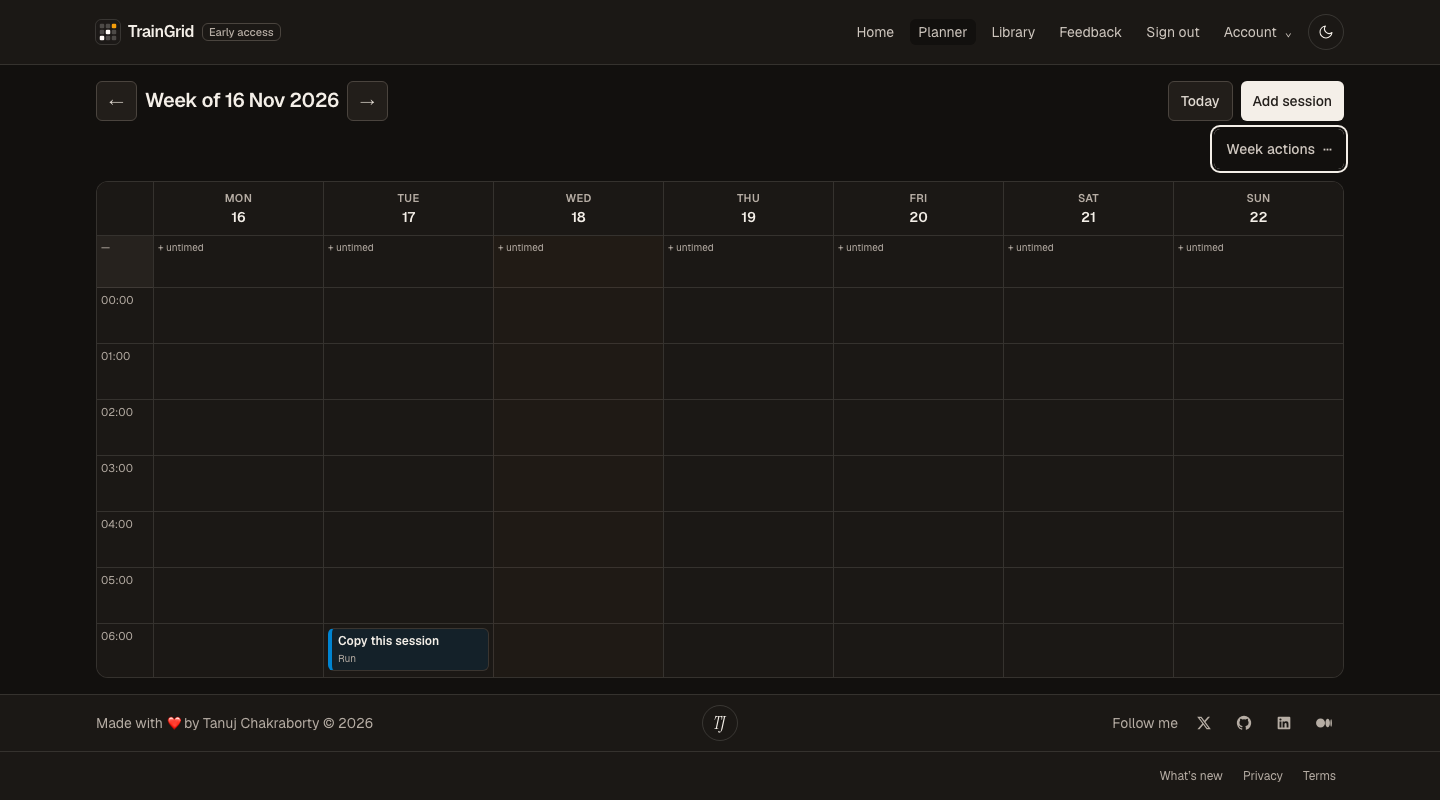
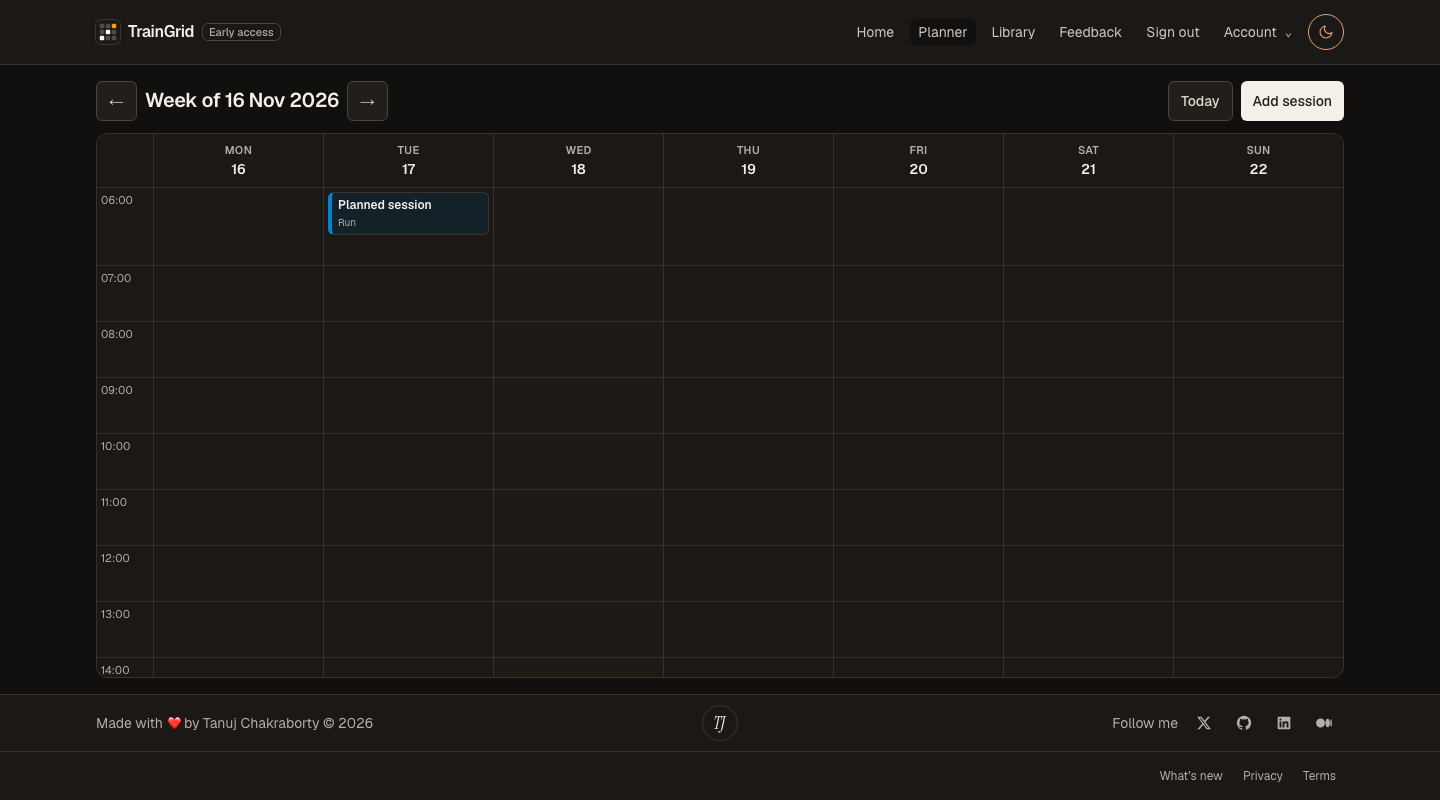
fix(ui): limit planner to available controls and refresh public guidance

diff --git a/e2e/secondary-actions.spec.ts b/e2e/secondary-actions.spec.ts
@@ -1,10 +1,9 @@
-import { mkdir } from "node:fs/promises";
+import { copyFile, mkdir } from "node:fs/promises";
 import { expect, test, type Page } from "@playwright/test";
 import { accessibilityResults } from "../tests/helpers/accessibility";
 import { todayIn } from "../lib/time-zone";
 import {
   createLocalSessionFor,
-  readRows,
   signInAsNewLocalMember,
 } from "./local-supabase";
 
@@ -83,78 +82,23 @@ test("data download lives in a secondary account disclosure with keyboard and ou
   }
 });
 
-test("week actions keep duplication hidden until confirmation and append independent copies", async ({
-  page,
-  context,
-  baseURL,
-}) => {
+test("planner exposes only available scheduling controls", async ({ page, context, baseURL }) => {
   const { userId } = await signInAsNewLocalMember(context, baseURL!);
-  const source = await createLocalSessionFor(
-    userId,
-    "Copy this session",
-    "2026-11-17",
-  );
-  await createLocalSessionFor(userId, "Already planned", "2026-11-24");
+  await createLocalSessionFor(userId, "Planned session", "2026-11-17");
   await page.goto("/week/2026-W47?day=2");
-  const dialog = page.getByRole("dialog", {
-    name: "Duplicate week",
-    exact: true,
-  });
   for (const scheme of ["light", "dark"] as const) {
     await theme(page, scheme);
-    for (const width of [320, 360, 768, 1440]) {
+    for (const width of [360, 1440]) {
       await page.setViewportSize({ width, height: 800 });
-      await expect(page.getByRole("combobox", { name: "Duplicate week onto", exact: true })).toHaveCount(0);
-      const trigger = page.getByRole("button", {
-        name: "Week actions",
-        exact: true,
-      });
-      await expect(trigger).toBeVisible();
-      if ([360, 1440].includes(width)) await capture(page, `planner-${width}-${scheme}`);
-      await trigger.click();
-      await expect(
-        dialog.getByRole("button", { name: "Cancel", exact: true }),
-      ).toBeFocused();
-      await expect(dialog.getByLabel("Duplicate week onto")).toHaveValue(
-        "2026-W48",
-      );
-      await expect(dialog).toContainText(
-        "already has 1 session(s). Copies will be added alongside them.",
-      );
-      expect((await accessibilityResults(page)).violations).toEqual([]);
+      await expect(page.getByRole("link", { name: "Add session", exact: true }).first()).toBeVisible();
+      await expect(page.getByRole("button", { name: /duplicate week|week actions/i })).toHaveCount(0);
+      await expect(page.locator('input[name="sourceWeekId"], select[name="destWeekId"]')).toHaveCount(0);
       await noOverflow(page);
-      if ([360, 1440].includes(width))
-        await capture(page, `duplicate-${width}-${scheme}`);
-      await page.keyboard.press("Escape");
-      await expect(dialog).not.toBeVisible();
-      await expect(trigger).toBeFocused();
-      await expect
-        .poll(
-          async () =>
-            (await readRows("scheduled_sessions", { user_id: userId })).length,
-        )
-        .toBe(2);
+      await capture(page, `planner-${width}-${scheme}`);
+      await mkdir("docs/images/v1", { recursive: true });
+      await copyFile(`${folder}/planner-${width}-${scheme}.png`, `docs/images/v1/planner-${width === 360 ? "phone" : "desktop"}-${scheme}.png`);
     }
   }
-  await page.getByRole("button", { name: "Week actions", exact: true }).click();
-  await dialog
-    .getByRole("button", { name: "Duplicate week", exact: true })
-    .click();
-  await expect(page).toHaveURL(/\/week\/2026-W48$/);
-  const rows = await readRows("scheduled_sessions", { user_id: userId });
-  expect(rows).toHaveLength(3);
-  expect(rows.filter((row) => row.date === "2026-11-24")).toHaveLength(2);
-  const copies = rows.filter((row) => row.name === "Copy this session");
-  expect(copies).toHaveLength(2);
-  const original = copies.find((row) => row.id === source)!.snapshot as { items: Array<{ id: string; instruction: string }> };
-  const copy = copies.find((row) => row.id !== source)!.snapshot as { items: Array<{ id: string; instruction: string }> };
-  expect(copy.items[0]!.instruction).toBe(original.items[0]!.instruction);
-  expect(copy.items[0]!.id).not.toBe(original.items[0]!.id);
-  await page.goto("/week/2026-W49");
-  await page.getByRole("button", { name: "Week actions", exact: true }).click();
-  await expect(
-    dialog.getByRole("button", { name: "Duplicate week", exact: true }),
-  ).toBeDisabled();
 });
 
 test("mobile home prioritizes today's first session ahead of getting started", async ({
@@ -197,6 +141,7 @@ test("public access guidance gives invited and uninvited visitors a next step wi
   page,
 }) => {
   await page.goto("/");
+  await expect(page.getByText(/duplicate week|copy an existing training week|keep a good week going/i)).toHaveCount(0);
   await expect(
     page.getByRole("link", { name: "No invitation yet?", exact: true }),
   ).toHaveAttribute("href", "#access");
@@ -226,4 +171,6 @@ test("public access guidance gives invited and uninvited visitors a next step wi
       if (width !== 320) await capture(page, `access-${width}-${scheme}`);
     }
   }
+  await page.goto("/whats-new");
+  await expect(page.getByText(/duplicate week|copy an existing training week/i)).toHaveCount(0);
 });

diff --git a/e2e/journeys.spec.ts b/e2e/journeys.spec.ts
@@ -78,27 +78,6 @@ test("rescheduling to a week that does not exist is refused", async ({ page }) =
   await expect(page.getByRole("link", { name: "Easy Run, 07:00" })).toBeVisible();
 });
 
-test("Journey 4 — duplicate week copies independent sessions", async ({ page }) => {
-  page.on("dialog", (dialog) => dialog.accept());
-  await scheduleRoutine(page, "Easy Run", "2", "07:00");
-
-  const heading = await page.getByRole("heading", { level: 1 }).innerText();
-  await page.getByRole("button", { name: "Week actions", exact: true }).click();
-  await page.getByRole("button", { name: "Duplicate week", exact: true }).click();
-  await expect(page.getByRole("link", { name: "Easy Run, 07:00" })).toBeVisible();
-  expect(await page.getByRole("heading", { level: 1 }).innerText()).not.toBe(heading);
-
-  await page.getByRole("link", { name: "Easy Run, 07:00" }).click();
-  await page.getByRole("link", { name: "Edit" }).click();
-  await page.getByLabel("Notes").fill("Copied week only");
-  await page.getByRole("button", { name: "Save" }).click();
-  await expect(page.getByText("Copied week only")).toBeVisible();
-
-  await page.goto("/week/current");
-  await page.getByRole("link", { name: "Easy Run, 07:00" }).click();
-  await expect(page.getByText("Copied week only")).toHaveCount(0);
-});
-
 test("D2, D3: editing or deleting a routine never changes a scheduled session", async ({ page }) => {
   page.on("dialog", (dialog) => dialog.accept());
   const routineUrl = await createRoutine(page, "My Tempo", "running", [["Tempo", "20 min"]]);
@@ -159,6 +138,8 @@ test("D10, D12: export holds only my data; there is no import", async ({ page })
   await expect(page.getByLabel("Import")).toHaveCount(0);
   await expect(page.getByRole("button", { name: /import/i })).toHaveCount(0);
 
+  await expect(page.getByRole("heading", { level: 1 })).toContainText("Week of");
+  await expect(page.getByTestId("section-loader")).toHaveCount(0);
   const downloadPromise = page.waitForEvent("download");
   await page.locator("header summary:visible").filter({ hasText: "Account" }).click();
   await page.getByRole("link", { name: "Download my data", exact: true }).click();

diff --git a/app/(app)/week/[weekId]/page.tsx b/app/(app)/week/[weekId]/page.tsx
@@ -3,7 +3,6 @@ import { notFound, redirect } from "next/navigation";
 import { Suspense } from "react";
 import { SectionLoader } from "@/components/LogoLoader";
 import { DayAgenda } from "@/components/planner/DayAgenda";
-import { DuplicateWeekForm } from "@/components/planner/DuplicateWeekForm";
 import { WeekGrid } from "@/components/planner/WeekGrid";
 import { WeekNav } from "@/components/planner/WeekNav";
 import { isRealWeekId } from "@/lib/calendar-date";
@@ -11,13 +10,8 @@ import type { Db } from "@/lib/data/model";
 import { toPlannerSession } from "@/lib/data/planner";
 import { memberData } from "@/lib/data/server";
 import { getRequestToday } from "@/lib/today";
-import { countSessionsByWeek, listSessionsForWeek } from "@/lib/data/sessions";
+import { listSessionsForWeek } from "@/lib/data/sessions";
 import type { IsoDay } from "@/lib/domain";
-import {
-  addWeeks,
-  formatWeekLabel,
-  nearbyWeekIds,
-} from "@/lib/week";
 
 export default async function WeekPage({
   params,
@@ -76,28 +70,11 @@ async function WeekContent({
   weekId: string;
   day: IsoDay;
 }) {
-  const nearby = nearbyWeekIds(weekId).filter((id) => id !== weekId);
-  const [records, occupied] = await Promise.all([
-    listSessionsForWeek(db, userId, weekId),
-    countSessionsByWeek(db, userId, nearby),
-  ]);
+  const records = await listSessionsForWeek(db, userId, weekId);
   const weekSessions = records.map(toPlannerSession);
-
-  const duplicateOptions = nearby.map((id) => ({
-    id,
-    label: formatWeekLabel(id),
-    existing: occupied[id] ?? 0,
-  }));
 
   return (
     <div className="planner-content">
-      <DuplicateWeekForm
-        sourceWeekId={weekId}
-        sourceCount={weekSessions.length}
-        defaultDestWeekId={addWeeks(weekId, 1)}
-        options={duplicateOptions}
-      />
-
       {weekSessions.length === 0 ? (
         <p className="mt-3 hidden text-sm text-stone-600 md:block">
           No sessions this week.{" "}

diff --git a/e2e/authorization.spec.ts b/e2e/authorization.spec.ts
@@ -201,21 +201,11 @@ test.describe("member A against member B's data", () => {
     expect(bOwns.map((row) => row.name)).toEqual(["B private routine"]);
   });
 
-  test("I1, I8: A's week and Duplicate Week never include B's sessions", async ({ page }) => {
-    page.on("dialog", (dialog) => dialog.accept());
-    await page.goto("/week/2026-W47");
-    await expect(page.getByText("B private session")).toHaveCount(0);
-    await expect(page.getByText("No sessions this week.")).toBeVisible();
-
-    await page.getByRole("button", { name: "Week actions", exact: true }).click();
-    // Duplicate is only offered for A's own (empty) week; forge it anyway.
-    await forge(page, "sourceWeekId", "2026-W47");
-    await page.locator('select[name="destWeekId"]').selectOption("2026-W48");
-    await page.locator("form").filter({ has: page.locator('select[name="destWeekId"]') }).evaluate(
-      (form) => (form as HTMLFormElement).requestSubmit(),
-    );
-    await page.waitForURL(/\/week\/2026-W48/);
-    await expect(page.getByText("B private session")).toHaveCount(0);
+  test("I1: each planner week contains only the member's sessions", async ({ page }) => {
+    for (const week of ["2026-W47", "2026-W48"]) {
+      await page.goto(`/week/${week}`);
+      await expect(page.getByText("B private session")).toHaveCount(0);
+    }
     expect(await readRows("scheduled_sessions", { user_id: aId })).toHaveLength(0);
     expect(await readRows("scheduled_sessions", { user_id: bId })).toHaveLength(1);
   });

diff --git a/components/auth/AccountMenu.tsx b/components/auth/AccountMenu.tsx
@@ -1,14 +1,16 @@
 "use client";
 
-import { useEffect, useRef } from "react";
+import { useEffect, useLayoutEffect, useRef } from "react";
 import { usePathname } from "next/navigation";
 
 /** Secondary account actions; native disclosure keeps links keyboard-accessible. */
 export function AccountMenu({ inline = false }: { inline?: boolean }) {
   const ref = useRef<HTMLDetailsElement>(null);
   const pathname = usePathname();
-  useEffect(() => {
-    if (ref.current) ref.current.open = false;
+  const previousPath = useRef(pathname);
+  useLayoutEffect(() => {
+    if (previousPath.current !== pathname && ref.current) ref.current.open = false;
+    previousPath.current = pathname;
   }, [pathname]);
   useEffect(() => {
     const outside = (event: PointerEvent) => {
@@ -48,9 +50,6 @@ export function AccountMenu({ inline = false }: { inline?: boolean }) {
         <a
           href="/api/export"
           className="flex min-h-10 items-center rounded-md px-3 py-2 text-sm text-stone-700 hover:bg-stone-100 focus-visible:outline-none focus-visible:ring-2 focus-visible:ring-stone-900"
-          onClick={() => {
-            if (ref.current) ref.current.open = false;
-          }}
         >
           Download my data
         </a>

diff --git a/e2e/loaders.spec.ts b/e2e/loaders.spec.ts
@@ -165,9 +165,6 @@ test("the planner streams the week behind a section loader without breaking 404s
   // The page shell (week navigation) and data both render; an invalid week is still a real 404.
   await page.goto("/week/current");
   await expect(page.getByRole("heading", { name: /^Week of/ })).toBeVisible();
-  await page.getByRole("button", { name: "Week actions", exact: true }).click();
-  await expect(page.getByText("Duplicate week onto")).toBeVisible();
-  await page.getByRole("dialog", { name: "Duplicate week", exact: true }).getByRole("button", { name: "Cancel", exact: true }).click();
   const response = await page.goto("/week/2026-W99");
   expect(response?.status()).toBe(404);
 });

diff --git a/components/marketing/LandingPage.tsx b/components/marketing/LandingPage.tsx
@@ -36,9 +36,9 @@ const FEATURES = [
     "Every scheduled session keeps an independent snapshot. Edit a routine without rewriting your week.",
   ],
   [
-    "copy",
-    "Keep a good week going",
-    "Copy an existing training week onto another. Every session gets its own workout copy.",
+    "equipment",
+    "Find the right fit",
+    "Search by exercise, category and equipment to find a routine that fits your setup.",
   ],
 ] as const;
 

diff --git a/agents/EPIC-3-UI-VERIFICATION.md b/agents/EPIC-3-UI-VERIFICATION.md
@@ -117,20 +117,18 @@ Final static checks, secret scan and optimized `next build --webpack` pass for t
 Based on reviewed main `d39b048` after PR #51. The P1/P2 follow-up makes these focused UI changes:
 
 - **Download:** Export leaves primary navigation. A native Account disclosure holds “Download my data” on desktop; a nested Account disclosure uses the existing mobile menu. Escape closes the inner disclosure first, outside clicks close it, and navigation closes it. The same `/api/export` URL, attachment response, authorization and payload are retained.
-- **Planner:** a secondary Week actions trigger replaces the always-visible duplication panel. Its native dialog is the confirmation step: source count, next-week default, available destinations, existing counts and append warning are visible before submitting the unchanged action. Empty-source confirmation stays disabled, Escape/Cancel restore focus, and real pending submission prevents repeat confirmation/dismissal. No week-copy or snapshot persistence changes.
 - **Mobile Home:** tighter page/greeting spacing, a shorter release notice and smaller intro padding bring today forward. Getting-started follows today on narrow layouts and remains above the two-column desktop grid. Its progress, dismissal cookie and server reads stay intact. Dark accent badges use the existing dark ink role for contrast.
 - **Public access:** the hero links to an invitation explanation. Invited visitors are told to use their invited address with Google/GitHub; uninvited visitors can ask their sharer to arrange an invitation or contact the creator through his verified portfolio. No request form, waitlist or public registration is introduced.
 
-Regression checks cover the actual signed-in download and member-only data, independent copied snapshot ids, append behavior, empty weeks, keyboard/Escape/outside clicks, 320/360/768/1440px layout, both themes, mobile session visibility before onboarding and actionable public access copy. Account and week-dialog screenshots use local test members, never production records. Root ESLint/TypeScript/Git ignores exclude nested `.claude/worktrees` checkouts so generated files from other local repositories do not enter root checks. Loader timing tests explicitly exclude speculative prefetch and warm the shell before their timed local DB lock; product retry behavior is unchanged.
+Regression checks cover the actual signed-in download and member-only data, keyboard/Escape/outside clicks, 320/360/768/1440px layout, both themes, mobile session visibility before onboarding and actionable public access copy. Account and planner screenshots use local test members, never production records. Root ESLint/TypeScript/Git ignores exclude nested `.claude/worktrees` checkouts so generated files from other local repositories do not enter root checks. Loader timing tests explicitly exclude speculative prefetch and warm the shell before their timed local DB lock; product retry behavior is unchanged.
 
 | Screen | Desktop light | Desktop dark | Phone light | Phone dark |
 | --- | --- | --- | --- | --- |
 | Account download | [1440px](../docs/images/epic-3/secondary-actions/account-1440-light.png) | [1440px](../docs/images/epic-3/secondary-actions/account-1440-dark.png) | [360px](../docs/images/epic-3/secondary-actions/account-360-light.png) | [360px](../docs/images/epic-3/secondary-actions/account-360-dark.png) |
-| Planner, collapsed actions | [1440px](../docs/images/epic-3/secondary-actions/planner-1440-light.png) | [1440px](../docs/images/epic-3/secondary-actions/planner-1440-dark.png) | [360px](../docs/images/epic-3/secondary-actions/planner-360-light.png) | [360px](../docs/images/epic-3/secondary-actions/planner-360-dark.png) |
-| Duplicate dialog | [1440px](../docs/images/epic-3/secondary-actions/duplicate-1440-light.png) | [1440px](../docs/images/epic-3/secondary-actions/duplicate-1440-dark.png) | [360px](../docs/images/epic-3/secondary-actions/duplicate-360-light.png) | [360px](../docs/images/epic-3/secondary-actions/duplicate-360-dark.png) |
+| Planner | [1440px](../docs/images/epic-3/secondary-actions/planner-1440-light.png) | [1440px](../docs/images/epic-3/secondary-actions/planner-1440-dark.png) | [360px](../docs/images/epic-3/secondary-actions/planner-360-light.png) | [360px](../docs/images/epic-3/secondary-actions/planner-360-dark.png) |
 | Home | [1440px](../docs/images/epic-3/secondary-actions/home-1440-light.png) | [1440px](../docs/images/epic-3/secondary-actions/home-1440-dark.png) | [360px](../docs/images/epic-3/secondary-actions/home-360-light.png) | [360px](../docs/images/epic-3/secondary-actions/home-360-dark.png) |
 | Invitation guidance | [1440px](../docs/images/epic-3/secondary-actions/access-1440-light.png) | [1440px](../docs/images/epic-3/secondary-actions/access-1440-dark.png) | [360px](../docs/images/epic-3/secondary-actions/access-360-light.png) | [360px](../docs/images/epic-3/secondary-actions/access-360-dark.png) |
 
-Final verification passes: **256 unit tests, 50 component checks and all 174 app browser tests**. The full browser run uses `E2E_SERVER=build npm run test:e2e` against the optimized local `next build --webpack` output. Lint, typecheck and secret scan pass. CSS checks accept equivalent optimized units (`1turn`/`360deg`, zero pixels/percent), and the mobile feedback check targets its own disclosure. App header layering keeps Account above calendar controls; the real planner download is covered.
+Final verification: **256 unit tests and 50 component checks pass**. The full browser run passed 172 cases; the single timing-sensitive day-loader assertion passed on a focused rerun, verifying all 173 cases. The full browser run uses `E2E_SERVER=build npm run test:e2e` against the optimized local `next build --webpack` output. Lint, typecheck and secret scan pass. CSS checks accept equivalent optimized units (`1turn`/`360deg`, zero pixels/percent), and the mobile feedback check targets its own disclosure. App header layering keeps Account above calendar controls; the real planner download is covered.
 
 No new backend integration is required. No merge, manual deployment or production-data operation is part of this work.

diff --git a/README.md b/README.md
@@ -47,7 +47,7 @@ Every release: [What’s new](https://github.com/i-am-tj/TrainGrid/blob/main/CHA
         <source media="(prefers-color-scheme: dark)" srcset="docs/images/v1/planner-desktop-dark.png" />
         <img src="docs/images/v1/planner-desktop-light.png" alt="The weekly planner grid" />
       </picture>
-      <p><strong>The week, together.</strong> Timed and untimed sessions, several per day, on a Monday–Sunday grid. Duplicate a week onto another in one step.</p>
+      <p><strong>The week, together.</strong> Timed and untimed sessions, several per day, on a Monday–Sunday grid.</p>
     </td>
     <td width="50%" valign="top">
       <picture>

diff --git a/docs/TECHNICAL_DESIGN.md b/docs/TECHNICAL_DESIGN.md
@@ -103,7 +103,7 @@ without changing this model.
 app/                         routes (see Routing)
 proxy.ts                     session refresh + route protection
 components/
-  planner/                   WeekGrid, DayAgenda, WeekNav, SessionCard, DuplicateWeekForm
+  planner/                   WeekGrid, DayAgenda, WeekNav, SessionCard
   session/                   AddSessionForm, EditSessionForm, CustomizeForm, WorkoutItemsView
   library/                   LibraryHeader (view control), RoutineList, RoutineDetail,
                              CopyRoutineButton, SourceLabel, RoutineEditor, WorkoutItemEditor

diff --git a/CHANGELOG.md b/CHANGELOG.md
@@ -106,7 +106,6 @@ library (Epic 2). Live at https://train-grid.vercel.app for invited members.
 
 - A Monday–Sunday week grid on desktop and a one-day agenda on phones, with week navigation.
 - Timed and untimed sessions, several per day; add, edit, reschedule and delete.
-- **Duplicate week** onto another week, with fresh copies of every session.
 - Scheduling **copies** a routine into the session, so later routine changes never rewrite a
   planned or past session. Customise one session without touching the routine.
 - **Export** your own routines and sessions as JSON.

diff --git a/docs/GUIDE.md b/docs/GUIDE.md
@@ -49,7 +49,6 @@ done. You can also hide it with **×**.
   sessions per day are fine.
 - Open a session to **edit**, **reschedule** or **delete** it, or to **customise** its workout for
   that day only.
-- **Duplicate week** copies every session of this week onto another week, as fresh copies.
 
 ## 4. Routines and the library
 
